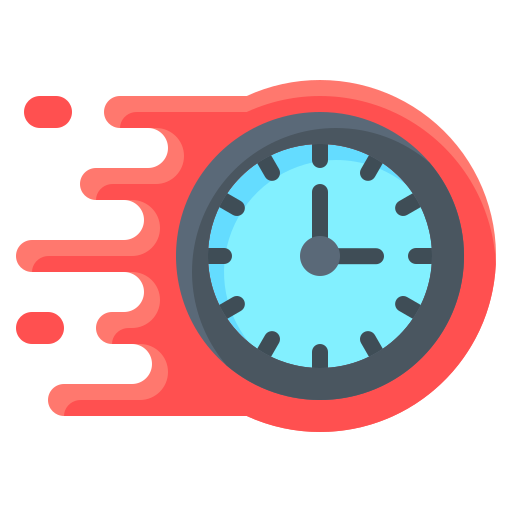
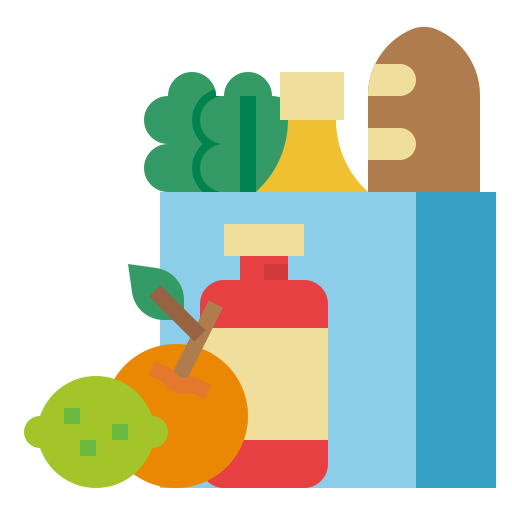
تم: اضافة تنبيه لا يوجد انترنت - تعديل ايقونة السبلاش - دالة تسجيل الخروج وحذف الحساب - المزيد..

diff --git a/components/OfflineAlert.tsx b/components/OfflineAlert.tsx
@@ -1,0 +1,52 @@
+import { useEffect, useState } from "react";
+import { BackHandler, Modal, Platform, Pressable, Text, View } from "react-native";
+import NetInfo from "@react-native-community/netinfo";
+
+export default function OfflineAlert() {
+  const [isOffline, setIsOffline] = useState(false);
+
+  useEffect(() => {
+    const unsubscribe = NetInfo.addEventListener((state) => {
+      const offline =
+        state.isConnected === false || state.isInternetReachable === false;
+      setIsOffline(offline);
+    });
+    return unsubscribe;
+  }, []);
+
+  const handleOk = () => {
+    if (Platform.OS === "android") {
+      BackHandler.exitApp();
+    }
+    // iOS: لا يوجد API رسمي لإنهاء التطبيق، يبقى التنبيه ظاهراً حتى تعود الشبكة
+  };
+
+  return (
+    <Modal
+      visible={isOffline}
+      transparent={true}
+      animationType="fade"
+      onRequestClose={() => {}}
+    >
+      <View className="flex-1 bg-black/50 justify-center items-center px-6">
+        <View className="bg-white dark:bg-darkCard rounded-2xl p-6 w-full max-w-sm shadow-lg">
+          <Text className="text-xl font-bold text-text dark:text-darkText mb-2 text-center">
+            لا يوجد اتصال بالإنترنت
+          </Text>
+          <Text className="text-gray-600 dark:text-gray-300 mb-6 text-center text-base">
+            يتطلب تطبيق مقادير الاتصال بالإنترنت لتقليب واستكشاف الوصفات من قاعدة
+            البيانات.
+          </Text>
+          <View className="flex-row justify-center">
+            <Pressable
+              onPress={handleOk}
+              className="px-5 py-2.5 rounded-lg bg-[#FD802E]"
+            >
+              <Text className="text-base text-white">حسناً</Text>
+            </Pressable>
+          </View>
+        </View>
+      </View>
+    </Modal>
+  );
+}

diff --git a/app/(tabs)/index.tsx b/app/(tabs)/index.tsx
@@ -9,13 +9,13 @@ import {
 } from "react-native";
 import { FlashList } from "@shopify/flash-list";
 import { useEffect, useState } from "react";
-import { Feather } from "@expo/vector-icons";
 import { Redirect, router } from "expo-router";
 import { LinearGradient } from "expo-linear-gradient";
 import AsyncStorage from "@react-native-async-storage/async-storage";
 import { useTranslation } from "react-i18next";
 import { getMealsByCategory } from "../../src/api/meal";
 import { getLocalizedMealName, useAppLanguage } from "../../src/utils/localizedMeal";
+import { Coffee, Salad, UtensilsCrossed } from "lucide-react-native";
 
 // تحديث الواجهة لتناسب قاعدة البيانات الخاصة بك
 type Meal = {
@@ -117,7 +117,7 @@ export default function Index() {
     <View className="flex-1 bg-background dark:bg-darkBackground">
       {/* Header */}
       <View
-        className={`p-5 flex-row items-center gap-4 mt-10 ${
+        className={`p-5 flex-row items-center gap-2 mt-10 ${
           isRTL ? "flex-row" : "flex-row-reverse"
         }`}
       >
@@ -133,7 +133,13 @@ export default function Index() {
             {t(getGreetingKey())}
           </Text>
         </View>
-        <Feather name="sun" size={24} color="#FD802E" />
+          {getGreetingKey() === "greeting morning" ? (
+            <Coffee color="#FD802E" size={24}  />
+          ) : getGreetingKey() === "greeting afternoon" ? (
+            <Salad color="#FD802E" size={24} />
+          ) : (
+            <UtensilsCrossed color="#FD802E" size={24} />
+          )}
       </View>
 
       {/* Categories Header */}

diff --git a/components/CustomSplash.tsx b/components/CustomSplash.tsx
@@ -1,6 +1,5 @@
 import React, { useEffect, useState } from 'react';
 import { View, Text, Image } from 'react-native';
-import { useTheme } from "../store/useTheme";
 import { useTranslation } from "react-i18next";
 
 interface CustomSplashProps {
@@ -9,7 +8,6 @@ interface CustomSplashProps {
 
 export default function CustomSplash({ onFinish }: CustomSplashProps) {
   const [progress, setProgress] = useState(0);
-    const { isDark } = useTheme(); 
     const { t } = useTranslation(); // استدعاء الدالة t للترجمة
 
   useEffect(() => {
@@ -35,7 +33,7 @@ export default function CustomSplash({ onFinish }: CustomSplashProps) {
     <View className="flex-1 bg-[#F8FAFC] dark:bg-[#223D4D] justify-center items-center px-6">
       {/* الشعار */}
       <Image 
-        source={isDark ? require('../assets/images/SplashIconDark.png') : require('../assets/images/SplashIcon.png')} 
+        source={require('../assets/images/MaqadeerIcon-NoBackground.png')} 
         className="w-48 h-48 p-4"
         resizeMode="contain"
       />

diff --git a/app/(tabs)/settings.tsx b/app/(tabs)/settings.tsx
@@ -61,25 +61,10 @@ export default function SettingsScreen() {
     ]);
   };
 
-  const handleLogout = () => {
-    alert(
-      t("logout"),
-      isArabic
-        ? "هل تريد تسجيل الخروج من حسابك؟"
-        : "Do you want to log out of your account?",
-      [
-        { text: t("cancel"), style: "cancel" },
-        {
-          text: t("logout"),
-          style: "destructive",
-          onPress: async () => {
-            await logoutUser();
-            useFavorites.getState().setFavorites([]);
-            router.replace("/Auth/Login");
-          },
-        },
-      ],
-    );
+  const handleLogout = async () => {
+    await logoutUser();
+    useFavorites.getState().setFavorites([]);
+    router.replace("/Auth/Login");
   };
 
   const handleDeleteAccount = async () => {
@@ -138,8 +123,6 @@ export default function SettingsScreen() {
         .pop() || (isRTL ? "متنوع" : "Miscellaneous")
     );
   };
-
-  const isArabic = i18n.language === "ar";
 
   return (
     <ScrollView

diff --git a/app/_layout.tsx b/app/_layout.tsx
@@ -9,6 +9,7 @@ import { Stack } from "expo-router";
 import CustomSplash from "../components/CustomSplash";
 import Onboarding from "../components/Onboarding";
 import { AlertProvider } from "../components/CustomAlert";
+import OfflineAlert from "../components/OfflineAlert";
 
 I18nManager.allowRTL(false);
 I18nManager.forceRTL(false);
@@ -86,6 +87,7 @@ export default function RootLayout() {
         <Stack.Screen name="Auth/Login" />
         <Stack.Screen name="Auth/Register" />
       </Stack>
+      <OfflineAlert />
     </AlertProvider>
   );
 }

diff --git a/app/(tabs)/random.tsx b/app/(tabs)/random.tsx
@@ -213,7 +213,7 @@ export default function RandomRecipe() {
 
       {/* Header: title + Filter button */}
       <View className="flex-row items-center justify-between mb-5">
-        <View />
+        <View className="w-11" />
         <Text className="text-xl font-bold text-text dark:text-darkText">
           {t("random recipe")}
         </Text>
